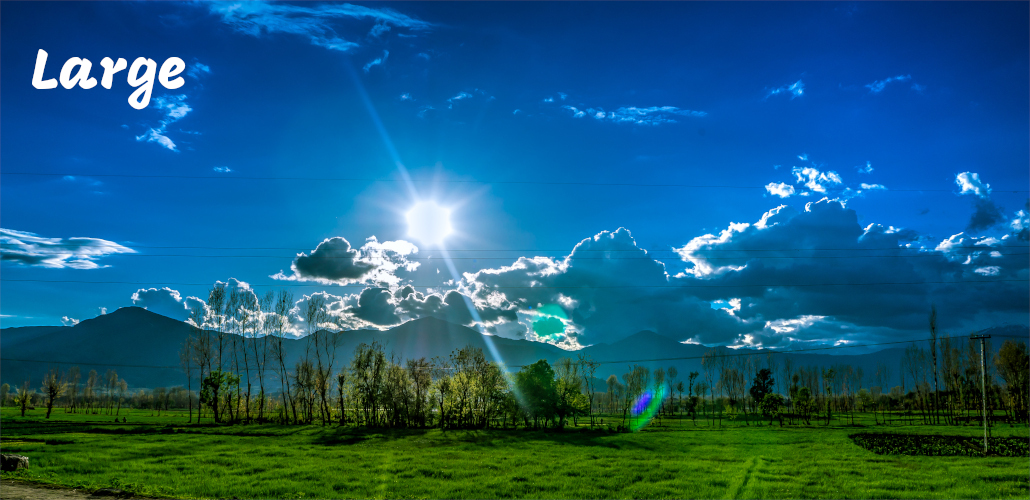
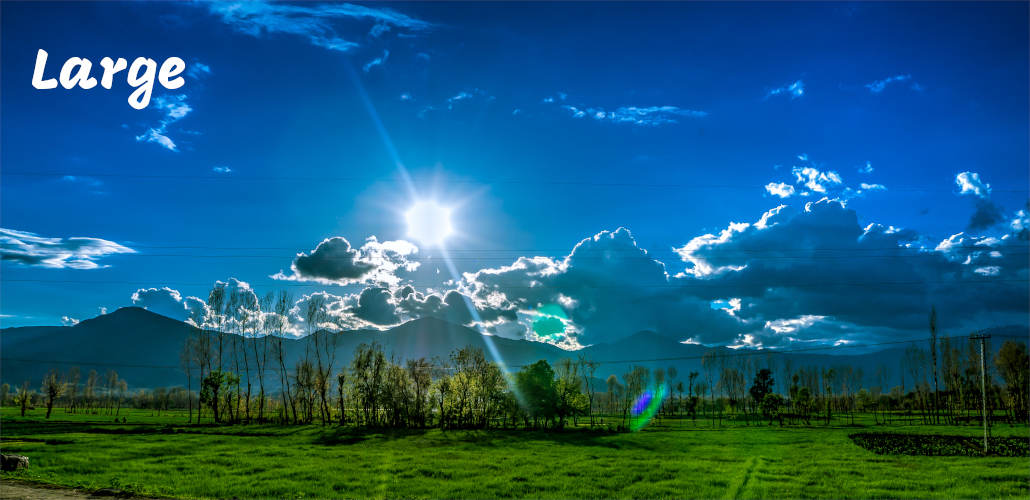
update of images quality

diff --git a/weather/preston.html b/weather/preston.html
@@ -98,7 +98,7 @@
                         <source media="(max-width:767px)" srcset="images/pexels-helena-lopes-770.jpg">
                         <source media="(max-width:1023px)" srcset="images/pexels-helena-lopes-1030.jpg">
                         <source media="(min-width:1024px)" srcset="images/pexels-helena-lopes-330.jpg">
-                        <img class="image" src="images/pexels-helena-lopes-745045.jpg" alt="helena lopes picture">
+                        <img class="image" src="images/pexels-helena-lopes-1030.jpg" alt="helena lopes picture">
                     </picture>
                 </div>
             </div>
